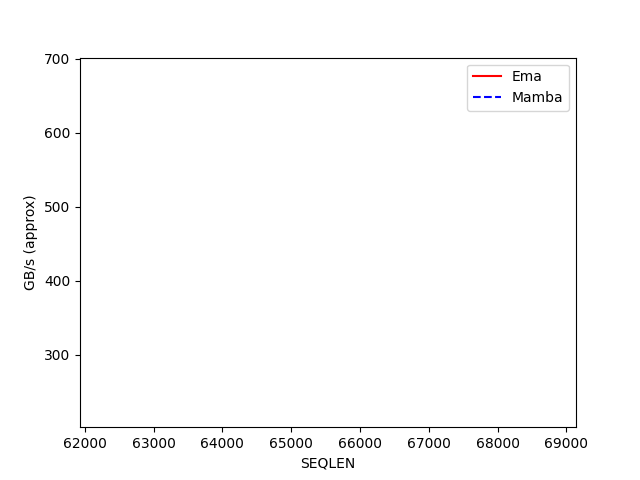
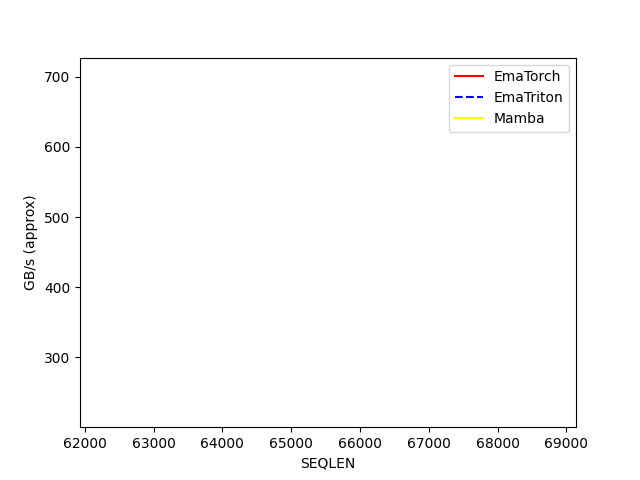
Add first backward kernel and profiling code

diff --git a/kernels/benchmarks/ema_bwd/dstates/dstates_outputs/results.html b/kernels/benchmarks/ema_bwd/dstates/dstates_outputs/results.html
@@ -1,0 +1,6 @@
+<html><body>
+<image src="raw_True_time_False_ema_b16_chunk_size128_head_dim1024_nh2.bench.png"/>
+<image src="raw_True_time_True_ema_b16_chunk_size128_head_dim1024_nh2.bench.png"/>
+<image src="raw_True_time_False_ema_b16_chunk_size256_head_dim1024_nh2.bench.png"/>
+<image src="raw_True_time_True_ema_b16_chunk_size256_head_dim1024_nh2.bench.png"/>
+</body></html>

diff --git a/kernels/ema_kernels_bwd/ema_scan_bwd.py b/kernels/ema_kernels_bwd/ema_scan_bwd.py
@@ -21,20 +21,22 @@ from packaging import version
 # )
 @triton.autotune(
     configs=[
-        triton.Config({'BLOCK_SIZE_M': 128, 'BLOCK_SIZE_N': 256, 'BLOCK_SIZE_K': 64}, num_stages=3, num_warps=8),
-        triton.Config({'BLOCK_SIZE_M': 64, 'BLOCK_SIZE_N': 256, 'BLOCK_SIZE_K': 32}, num_stages=4, num_warps=4),
-        triton.Config({'BLOCK_SIZE_M': 128, 'BLOCK_SIZE_N': 128, 'BLOCK_SIZE_K': 32}, num_stages=4, num_warps=4),
-        triton.Config({'BLOCK_SIZE_M': 128, 'BLOCK_SIZE_N': 64, 'BLOCK_SIZE_K': 32}, num_stages=4, num_warps=4),
-        triton.Config({'BLOCK_SIZE_M': 64, 'BLOCK_SIZE_N': 128, 'BLOCK_SIZE_K': 32}, num_stages=4, num_warps=4),
-        triton.Config({'BLOCK_SIZE_M': 128, 'BLOCK_SIZE_N': 32, 'BLOCK_SIZE_K': 32}, num_stages=4, num_warps=4),
-        triton.Config({'BLOCK_SIZE_M': 64, 'BLOCK_SIZE_N': 32, 'BLOCK_SIZE_K': 32}, num_stages=5, num_warps=2),
-        triton.Config({'BLOCK_SIZE_M': 32, 'BLOCK_SIZE_N': 64, 'BLOCK_SIZE_K': 32}, num_stages=5, num_warps=2),
-        triton.Config({'BLOCK_SIZE_M': 64, 'BLOCK_SIZE_N': 64, 'BLOCK_SIZE_K': 32}, num_stages=4, num_warps=2),
+        # small/medium head dim
+        triton.Config({'BLOCK_SIZE_T': 64,  'BLOCK_SIZE_K': 32}, num_stages=2, num_warps=2),
+        triton.Config({'BLOCK_SIZE_T': 64,  'BLOCK_SIZE_K': 64}, num_stages=2, num_warps=4),
+        triton.Config({'BLOCK_SIZE_T': 128, 'BLOCK_SIZE_K': 32}, num_stages=3, num_warps=4),
+        # typical EMA shapes (e.g., head_dim≈512–1024, chunk_size=128)
+        triton.Config({'BLOCK_SIZE_T': 128, 'BLOCK_SIZE_K': 64},  num_stages=3, num_warps=4),
+        triton.Config({'BLOCK_SIZE_T': 128, 'BLOCK_SIZE_K': 128}, num_stages=3, num_warps=8),
+        triton.Config({'BLOCK_SIZE_T': 256, 'BLOCK_SIZE_K': 64},  num_stages=3, num_warps=8),
+        triton.Config({'BLOCK_SIZE_T': 256, 'BLOCK_SIZE_K': 128}, num_stages=4, num_warps=8),
+        # very wide head dim
+        triton.Config({'BLOCK_SIZE_T': 512, 'BLOCK_SIZE_K': 64},  num_stages=4, num_warps=8),
     ],
-    key=['hdim', 'dstate', 'chunk_size'],
+    key=['token_dim', 'chunk_size'],
 )
 @triton.jit
-def _chunk_scan_bwd_dstates_kernel(
+def _ema_chunk_scan_bwd_dstates_kernel(
     # Pointers to matrices
     dout_ptr, dprev_states_ptr, dA_cumsum_ptr,
     # Matrix dimensions
@@ -45,57 +47,84 @@ def _chunk_scan_bwd_dstates_kernel(
     stride_dprev_states_batch, stride_dprev_states_chunk, stride_dprev_states_token_dim,
     stride_dA_cs_batch, stride_dA_cs_chunk, stride_dA_cs_chunk_size,
     # Meta-parameters
-    BLOCK_SIZE_M: tl.constexpr, BLOCK_SIZE_N: tl.constexpr, BLOCK_SIZE_K: tl.constexpr,
+    BLOCK_SIZE_T: tl.constexpr, BLOCK_SIZE_K: tl.constexpr,
 ):
-    pid_bc = tl.program_id(axis=1)
-    pid_c = pid_bc // batch
-    pid_b = pid_bc - pid_c * batch
-    pid_h = tl.program_id(axis=2)
-    num_pid_n = tl.cdiv(dstate, BLOCK_SIZE_N)
-    pid_m = tl.program_id(axis=0) // num_pid_n
-    pid_n = tl.program_id(axis=0) % num_pid_n
-    c_ptr += pid_b * stride_c_batch + pid_c * chunk_size * stride_c_seqlen + (pid_h // nheads_ngroups_ratio) * stride_c_head
-    dout_ptr += pid_b * stride_dout_batch + pid_c * chunk_size * stride_dout_seqlen + pid_h * stride_dout_head
-    dA_cumsum_ptr += pid_b * stride_dA_cs_batch + pid_c * stride_dA_cs_chunk + pid_h * stride_dA_cs_head
-    if HAS_SEQ_IDX:
-        seq_idx_ptr += pid_b * stride_seq_idx_batch + pid_c * chunk_size * stride_seq_idx_seqlen
+    # program ids
+    pid_b = tl.program_id(axis=0)
+    pid_c = tl.program_id(axis=1)
+    pid_t = tl.program_id(axis=2)
 
-    offs_m = pid_m * BLOCK_SIZE_M + tl.arange(0, BLOCK_SIZE_M)
-    offs_n = pid_n * BLOCK_SIZE_N + tl.arange(0, BLOCK_SIZE_N)
+    # offsets for token-dim tile
+    offs_t = pid_t * BLOCK_SIZE_T + tl.arange(0, BLOCK_SIZE_T)
+    tl.max_contiguous(offs_t, BLOCK_SIZE_T)
+
+    # each kernel instance handles one (batch, chunk, token-tile)
+    chunk_start = pid_c * chunk_size
+    chunk_size_limit = min(chunk_size, seqlen - chunk_start)
+
+    # base pointers for this (batch, chunk, token-tile)
+    dout_base = (
+        dout_ptr
+        + pid_b * stride_dout_batch
+        + chunk_start * stride_dout_seqlen
+        + offs_t[None, :] * stride_dout_token_dim
+    )
+    dA_cs_base = (
+        dA_cumsum_ptr
+        + pid_b * stride_dA_cs_batch
+        + pid_c * stride_dA_cs_chunk
+    )
+
+    # accumulator for dstates: shape [BLOCK_SIZE_T]
+    acc = tl.zeros((BLOCK_SIZE_T,), dtype=tl.float32)
+
+    # loop over the chunk dimension in blocks of BLOCK_SIZE_K
     offs_k = tl.arange(0, BLOCK_SIZE_K)
-    dout_ptrs = dout_ptr + (offs_m[:, None] * stride_dout_hdim + offs_k[None, :] * stride_dout_seqlen)
-    c_ptrs = c_ptr + (offs_n[None, :] * stride_c_dstate + offs_k[:, None] * stride_c_seqlen)
-    dA_cumsum_ptrs = dA_cumsum_ptr + offs_k * stride_dA_cs_csize
-    if HAS_SEQ_IDX:
-        seq_idx_ptrs = seq_idx_ptr + offs_k * stride_seq_idx_seqlen
+    tl.max_contiguous(offs_k, BLOCK_SIZE_K)
+    dA_cs_ptrs = dA_cs_base + offs_k * stride_dA_cs_chunk_size
+    dout_ptrs = dout_base + offs_k[:, None] * stride_dout_seqlen
 
-    chunk_size_limit = min(chunk_size, seqlen - pid_c * chunk_size)
-    acc = tl.zeros((BLOCK_SIZE_M, BLOCK_SIZE_N), dtype=tl.float32)
-    if HAS_SEQ_IDX:
-        seq_idx_prev = tl.load(seq_idx_ptr - stride_seq_idx_seqlen, mask=pid_c >= 1, other=0)
-    for k in range(0, chunk_size_limit, BLOCK_SIZE_K):
-        dout = tl.load(dout_ptrs, mask=(offs_m[:, None] < hdim) & (offs_k[None, :] < chunk_size_limit - k), other=0.0).to(tl.float32)
-        dA_cs_k = tl.load(dA_cumsum_ptrs, mask=offs_k < chunk_size - k, other=0.0).to(tl.float32)
-        if not HAS_SEQ_IDX:
-            scale_k = tl.exp(dA_cs_k)
-        else:
-            seq_idx_k = tl.load(seq_idx_ptrs, mask=offs_k < chunk_size_limit - k, other=-1)
-            scale_k = tl.where(seq_idx_k == seq_idx_prev, tl.exp(dA_cs_k), 0.0)
-        dout = (dout * scale_k).to(dout_ptr.dtype.element_ty)
-        c = tl.load(c_ptrs, mask=(offs_k[:, None] < chunk_size_limit - k) & (offs_n[None, :] < dstate), other=0.0)
-        acc += tl.dot(dout, c)
+    for k_start in range(0, chunk_size_limit, BLOCK_SIZE_K):
+        k_mask = offs_k + k_start < chunk_size_limit
+
+        # load dA_cumsum for this (batch, chunk, k) block -> [K]
+        dA_cs = tl.load(
+            dA_cs_ptrs,
+            mask=k_mask,
+            other=0.0,
+        ).to(tl.float32)
+        scale = tl.exp(dA_cs)  # [K]
+
+        # load dout for this (batch, token_dim, k) block -> [K, T]
+        dout = tl.load(
+            dout_ptrs,
+            mask=(
+                (offs_t[None, :] < token_dim)
+                & k_mask[:, None]
+            ),
+            other=0.0,
+        ).to(tl.float32)
+
+        # apply weights and sum over k dimension
+        weighted = dout * scale[:, None]
+        acc += tl.sum(weighted, axis=0)
+
+        # advance pointers along sequence for next k block
+        dA_cs_ptrs += BLOCK_SIZE_K * stride_dA_cs_chunk_size
         dout_ptrs += BLOCK_SIZE_K * stride_dout_seqlen
-        c_ptrs += BLOCK_SIZE_K * stride_c_seqlen
-        dA_cumsum_ptrs += BLOCK_SIZE_K * stride_dA_cs_csize
-        if HAS_SEQ_IDX:
-            seq_idx_ptrs += BLOCK_SIZE_K * stride_seq_idx_seqlen
-    out = acc.to(dprev_states_ptr.dtype.element_ty)
 
-    dprev_states_ptr += pid_b * stride_dprev_states_batch + pid_c * stride_dprev_states_chunk + pid_h * stride_dprev_states_head
-    offs_m = pid_m * BLOCK_SIZE_M + tl.arange(0, BLOCK_SIZE_M)
-    offs_n = pid_n * BLOCK_SIZE_N + tl.arange(0, BLOCK_SIZE_N)
-    dprev_states_ptrs = dprev_states_ptr + (offs_m[:, None] * stride_dprev_states_hdim + offs_n[None, :] * stride_dprev_states_dstate)
-    tl.store(dprev_states_ptrs, out, mask=(offs_m[:, None] < hdim) & (offs_n[None, :] < dstate))
+    # write back dstates: [T] tile for this (batch, chunk)
+    dprev_states_ptrs = (
+        dprev_states_ptr
+        + pid_b * stride_dprev_states_batch
+        + pid_c * stride_dprev_states_chunk
+        + offs_t * stride_dprev_states_token_dim
+    )
+    tl.store(
+        dprev_states_ptrs,
+        acc.to(dprev_states_ptr.dtype.element_ty),
+        mask=(offs_t < token_dim),
+    )
 
 
 
@@ -110,10 +139,9 @@ def _ema_chunk_scan_bwd_dstates(dA_cumsum, dout, seq_idx=None, dtype=None):
     # allocate space for the output
     dprev_states = torch.empty(batch, nchunks, token_dim, device=dout.device, dtype=dtype)
 
-    grid_dstates = lambda META: (triton.cdiv(token_dim, META['BLOCK_SIZE_T']),
-                            batch, nchunks)
+    grid_dstates = lambda META: (batch, nchunks, triton.cdiv(token_dim, META['BLOCK_SIZE_T']),)
     with torch.cuda.device(dout.device.index):
-        _chunk_scan_bwd_dstates_kernel[grid_dstates](
+        _ema_chunk_scan_bwd_dstates_kernel[grid_dstates](
             dout, dprev_states, dA_cumsum,
             token_dim, chunk_size,
             batch, seqlen, nchunks,

diff --git a/kernels/benchmarks/ema_bwd/dstates/ema_scan_bwd_dstates_bench.py b/kernels/benchmarks/ema_bwd/dstates/ema_scan_bwd_dstates_bench.py
@@ -17,17 +17,17 @@ MAMBA_CHUNK_SIZE = 128
 
 
 bench_configs = []
-for mamba_chunk_size in [128]:
+for mamba_chunk_size in [128, 256]:
     for head_dim in [1024]:
         for raw in [True]:
             for plot_time in [False, True]:
                 bench_configs.append(
                     triton.testing.Benchmark(
                         x_names=["SEQLEN"],
-                        x_vals=[2**i for i in range(16, 17)],  # 128 -> 2048
+                        x_vals=[2**i for i in range(13, 17)],  # 128 -> 2048
                         line_arg="provider",
-                        line_vals=["ema_torch","mamba"],
-                        line_names=["Ema", "Mamba"],
+                        line_vals=["ema_torch", "ema_triton", "mamba"],
+                        line_names=["EmaTorch", "EmaTriton", "Mamba"],
                         styles=[("red", "-"), ("blue", "--"), ("yellow", "-"), ("green", "--")],
                         ylabel="GB/s (approx)" if not plot_time else "1/time",
                         plot_name=f"raw_{str(raw)}_time_{str(plot_time)}_ema_b{BATCH_SIZE}_chunk_size{mamba_chunk_size}_head_dim{head_dim}_nh{MAMBA_NUM_HEADS}.bench",
@@ -164,13 +164,24 @@ def bench_ema(BATCH, SEQLEN, HEAD_DIM, MAMBA_HEAD_DIM, MAMBA_CHUNK_SIZE, provide
             mamba_dstates = _chunk_scan_bwd_dstates(C_m, mamba_cs, 
                                                             dout_m)
 
-        def ema_raw_fn():
-            torch_dstates = torch.sum(torch.mul(rearrange(dout_ema, "b (c q) t -> b c q t", q=MAMBA_CHUNK_SIZE), 
-                                            torch.exp(ema_cs[..., None])), dim = 2)
+        def ema_torch_raw_fn():
+            torch_dstates = torch.sum(
+                torch.mul(
+                    rearrange(dout_ema, "b (c q) t -> b c q t", q=MAMBA_CHUNK_SIZE),
+                    torch.exp(ema_cs[..., None]),
+                ),
+                dim=2,
+            )
+
+        def ema_triton_raw_fn():
+            ema_dstates = _ema_chunk_scan_bwd_dstates(ema_cs, dout_ema)
 
         if provider == "ema_torch":
-            ms = triton.testing.do_bench_cudagraph(ema_raw_fn)
-            bytes_moved = ema_data_read + ema_or_mamba_data_out 
+            ms = triton.testing.do_bench_cudagraph(ema_torch_raw_fn)
+            bytes_moved = ema_data_read + ema_or_mamba_data_out
+        elif provider == "ema_triton":
+            ms = triton.testing.do_bench_cudagraph(ema_triton_raw_fn)
+            bytes_moved = ema_data_read + ema_or_mamba_data_out
         elif provider == "mamba":
             ms = triton.testing.do_bench_cudagraph(mamba_raw_fn)
             bytes_moved = mamba_data_read + ema_or_mamba_data_out 
@@ -187,4 +198,4 @@ def bench_ema(BATCH, SEQLEN, HEAD_DIM, MAMBA_HEAD_DIM, MAMBA_CHUNK_SIZE, provide
 
 
 if __name__ == "__main__":
-    bench_ema.run(print_data=True, save_path="./kernels/benchmarks/ema/state_fwd/state_fwd_outputs/")
+    bench_ema.run(print_data=True, save_path="./kernels/benchmarks/ema_bwd/dstates/dstates_outputs/")

diff --git a/kernels/tests/ema_bwd/test_ema_scan_bwd_dstates.py b/kernels/tests/ema_bwd/test_ema_scan_bwd_dstates.py
@@ -6,6 +6,7 @@ from einops import rearrange, repeat
 
 # from kernels.ema_kernels_bwd.ema_sc
 from kernels.ema_kernels.ema_cumsum import ema_chunk_cumsum_fwd
+from kernels.ema_kernels_bwd.ema_scan_bwd import _ema_chunk_scan_bwd_dstates
 from kernels.mamba_kernels_bwd.mamba_scan_bwd import _chunk_scan_bwd_dstates
 from kernels.mamba_kernels.mamba_cumsum import _chunk_cumsum_fwd
 
@@ -108,7 +109,16 @@ class TestEmaCumsumKernels:
         )
         # across heads the computation should be the same
 
-        torch_dstates = torch.sum(torch.mul(rearrange(self.ema_dout, "b (c q) t -> b c q t", q=self.MAMBA_CHUNK_SIZE), 
-                                            torch.exp(ema_cs[..., None])), dim = 2)
-        
+        torch_dstates = torch.sum(
+            torch.mul(
+                rearrange(self.ema_dout, "b (c q) t -> b c q t", q=self.MAMBA_CHUNK_SIZE),
+                torch.exp(ema_cs[..., None]),
+            ),
+            dim=2,
+        )
+
+        # EMA dstates kernel should reproduce torch_dstates
+        ema_dstates = _ema_chunk_scan_bwd_dstates(ema_cs, self.ema_dout)
+
         assert torch.allclose(mamba_cs[:, 0, ...], ema_cs, atol=1e-2)
+        assert torch.allclose(ema_dstates, torch_dstates, atol=1e-2, rtol=1e-2)

diff --git a/kernels/tests/ema/test_ema_scan_fwd.py b/kernels/tests/ema/test_ema_scan_fwd.py
@@ -167,7 +167,6 @@ class TestEmaStateFwdKernels:
         # call scan
         assert (torch.allclose(mamba_test, ema_output, atol=1e-2))
         assert (torch.allclose(states_ema_loop, ema_output.to("cpu"), atol=1e-2))
-
         
 
 
